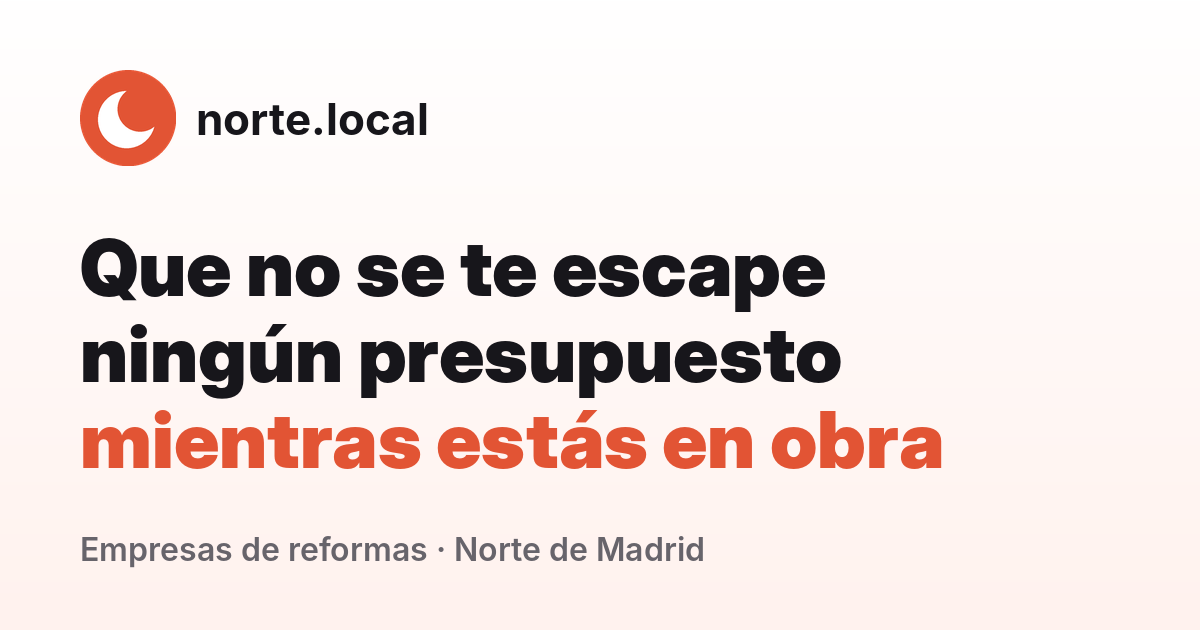
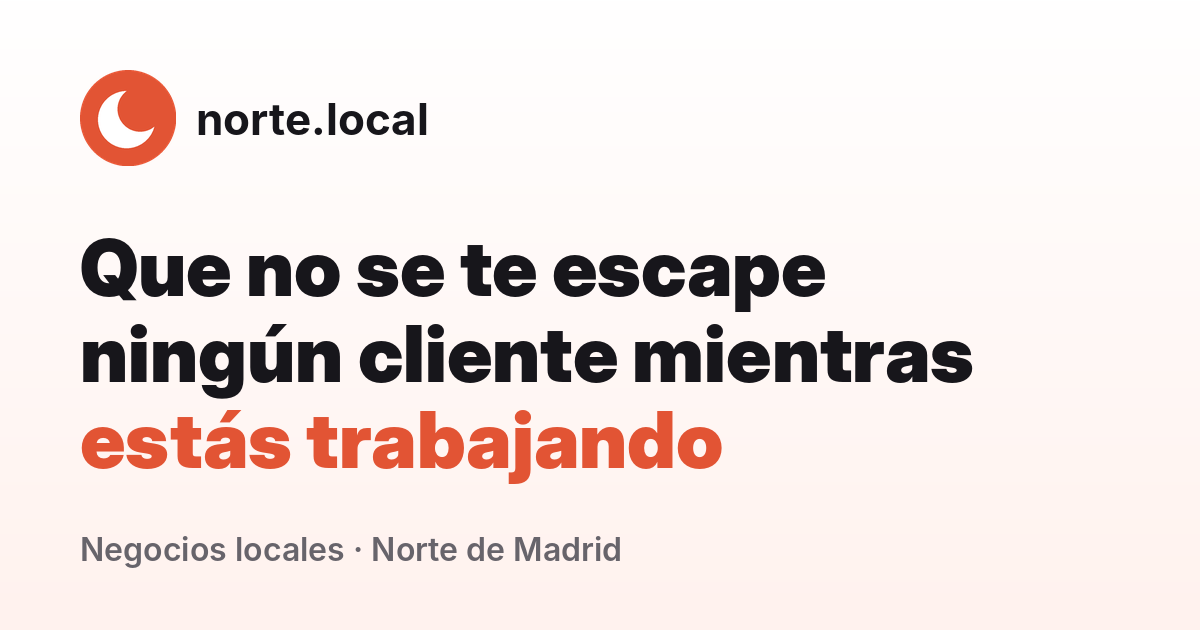
Web: textos generales para cualquier negocio local (sin obras ni reformas)
Claude-Session: https://claude.ai/code/session_01Rdc7L8NRLgrkcbEdKPt14X

Changed region(s): [[0.0617, 0.5127, 0.8325, 0.7841], [0.0617, 0.8444, 0.5858, 0.9048]]

diff --git a/index.html b/index.html
@@ -3,19 +3,19 @@
 <head>
 <meta charset="utf-8">
 <meta name="viewport" content="width=device-width, initial-scale=1">
-<title>norte.local · Asistente que contesta a tus clientes mientras estás en obra</title>
-<meta name="description" content="Para empresas de reformas del norte de Madrid: un asistente que contesta al momento por WhatsApp, Instagram o tu web, pregunta qué obra es y deja la visita agendada. 14 días de prueba gratis.">
+<title>norte.local · Asistente que contesta a tus clientes mientras trabajas</title>
+<meta name="description" content="Para negocios locales del norte de Madrid: un asistente que contesta al momento por WhatsApp, Instagram o tu web, entiende qué necesita el cliente y deja la cita agendada. 14 días de prueba gratis.">
 <link rel="icon" href="assets/logo.svg" type="image/svg+xml">
 <link rel="apple-touch-icon" href="assets/icono-180.png">
-<meta property="og:title" content="Que no se te escape ningún presupuesto mientras estás en obra">
-<meta property="og:description" content="Un asistente que contesta al momento a tus clientes y deja la visita agendada. Empresas de reformas del norte de Madrid.">
+<meta property="og:title" content="Que no se te escape ningún cliente mientras estás trabajando">
+<meta property="og:description" content="Un asistente que contesta al momento a tus clientes y deja la cita agendada. Negocios locales del norte de Madrid.">
 <meta property="og:image" content="assets/og.png">
 <meta property="og:type" content="website">
 <meta name="theme-color" content="#e25434">
 <link rel="preload" href="assets/fonts/InterDisplay-Black.woff2" as="font" type="font/woff2" crossorigin>
 <link rel="stylesheet" href="assets/estilo.css">
 <script type="application/ld+json">
-{"@context":"https://schema.org","@type":"ProfessionalService","name":"norte.local","description":"Asistente automático que contesta los mensajes de empresas de reformas y agenda la visita para el presupuesto.","email":"hugoruizserrano10@gmail.com","areaServed":["Alcobendas","San Sebastián de los Reyes","Tres Cantos","Algete","Colmenar Viejo","Madrid norte"],"sameAs":["https://www.instagram.com/norte.local_/"],"priceRange":"99 €/mes + IVA"}
+{"@context":"https://schema.org","@type":"ProfessionalService","name":"norte.local","description":"Asistente automático que contesta los mensajes de los clientes de negocios locales y agenda la cita.","email":"hugoruizserrano10@gmail.com","areaServed":["Alcobendas","San Sebastián de los Reyes","Tres Cantos","Algete","Colmenar Viejo","Madrid norte"],"sameAs":["https://www.instagram.com/norte.local_/"],"priceRange":"99 €/mes + IVA"}
 </script>
 </head>
 <body>
@@ -41,28 +41,28 @@
 <section class="portada" aria-labelledby="titulo">
   <div class="envoltura">
     <div>
-      <h1 id="titulo">Que no se te escape ningún presupuesto mientras estás en obra</h1>
-      <p class="entrada">Un asistente que contesta al momento los mensajes de tu empresa de reformas, pregunta qué obra es y deja la visita para medir en tu agenda.</p>
+      <h1 id="titulo">Que no se te escape ningún cliente mientras estás trabajando</h1>
+      <p class="entrada">Un asistente que contesta al momento los mensajes de tu negocio, entiende qué necesita cada cliente y le deja la cita apuntada en tu agenda.</p>
       <div class="acciones">
-        <a class="boton" href="#contacto">Pedir una demo con mi empresa</a>
+        <a class="boton" href="#contacto">Pedir una demo con mi negocio</a>
         <a class="boton secundario" href="#como-funciona">Ver cómo funciona</a>
       </div>
       <p class="nota">14 días de prueba gratis. Sin permanencia. Norte de Madrid.</p>
     </div>
 
-    <div class="telefono" aria-label="Ejemplo de conversación: un cliente escribe un domingo por la noche y el asistente agenda la visita">
+    <div class="telefono" aria-label="Ejemplo de conversación: un cliente escribe por la noche y el asistente le agenda una cita">
       <div class="pantalla">
         <div class="barra">
           <div class="avatar"><svg viewBox="0 0 64 64" aria-hidden="true"><circle cx="32" cy="32" r="30" fill="#e25434"/><path d="M38 14a19 19 0 1 0 12 32A16 16 0 0 1 38 14z" fill="#fff"/></svg></div>
-          <div><strong>Reformas Martín</strong><span>Responde al momento</span></div>
+          <div><strong>Taller Martín</strong><span>Responde al momento</span></div>
           <div class="reloj" id="reloj">22:14</div>
         </div>
         <div class="chat" id="chat">
-          <div class="burbuja cliente">Hola, quiero cambiar la bañera por un plato de ducha. Vivo en Alcobendas. ¿Me podéis dar precio?<small>22:14</small></div>
-          <div class="burbuja bot">¡Hola! Soy el asistente automático de Reformas Martín. El cambio de bañera por plato suele ir de 1.200 a 2.000 €, según el baño. Para darte precio cerrado pasamos a medirlo. ¿Te va bien alguna de estas horas?<small>22:14</small></div>
+          <div class="burbuja cliente">Hola, al coche le chirrían los frenos. ¿Podéis mirarlo esta semana? ¿Más o menos cuánto cuesta?<small>22:14</small></div>
+          <div class="burbuja bot">¡Hola! Soy el asistente automático de Taller Martín. La revisión de frenos cuesta 25 €; si hay que cambiar pastillas, desde 90 €. ¿Te va bien traerlo a alguna de estas horas?<small>22:14</small></div>
           <div class="horas"><span class="elegida">Mañana 10:00</span><span>Martes 17:30</span></div>
-          <div class="burbuja cliente">Mañana a las 10 perfecto<small>22:15</small></div>
-          <div class="confirmacion"><i aria-hidden="true"></i>Visita creada y aviso enviado a Martín</div>
+          <div class="burbuja cliente">Mañana a las 10, perfecto<small>22:15</small></div>
+          <div class="confirmacion"><i aria-hidden="true"></i>Cita creada y aviso enviado a Martín</div>
         </div>
       </div>
     </div>
@@ -72,14 +72,14 @@
 <section class="problema" aria-labelledby="t-problema">
   <div class="envoltura">
     <div class="cabeza-seccion">
-      <h2 id="t-problema">El presupuesto se lo lleva quien contesta primero</h2>
-      <p>Mientras estás en una obra, con las manos ocupadas, te escriben clientes que quieren una respuesta ya. Si tardas, preguntan a otra empresa.</p>
+      <h2 id="t-problema">El cliente se va con quien contesta primero</h2>
+      <p>Mientras atiendes a otro cliente o ya has cerrado, te escriben personas que quieren una respuesta ya. Si tardas, preguntan a otro negocio.</p>
     </div>
     <ol class="cronologia" aria-label="Lo que pasa hoy con un mensaje que llega por la noche">
-      <li class="mal"><time>22:14</time><p>Un vecino de Alcobendas pregunta por cambiar su bañera.</p></li>
-      <li><time>22:30</time><p>No contesta nadie. Escribe a dos empresas más.</p></li>
+      <li class="mal"><time>22:14</time><p>Un vecino de Alcobendas pregunta precio y si tienes hueco esta semana.</p></li>
+      <li><time>22:30</time><p>No contesta nadie. Escribe a dos negocios más.</p></li>
       <li><time>08:40</time><p>Contestas tú, con el primer café.</p></li>
-      <li class="mal"><time>08:41</time><p>"Gracias, ya me lo ha mirado otra empresa".</p></li>
+      <li class="mal"><time>08:41</time><p>"Gracias, ya lo he solucionado con otro".</p></li>
     </ol>
   </div>
 </section>
@@ -88,7 +88,7 @@
   <div class="envoltura">
     <div class="cabeza-seccion">
       <h2 id="t-pasos">Cómo funciona</h2>
-      <p>Lo monto yo a partir de tu web y de un cuestionario de diez minutos. Tú solo atiendes las visitas.</p>
+      <p>Lo monto yo a partir de tu web y de un cuestionario de diez minutos. Tú solo atiendes a los clientes.</p>
     </div>
     <ol class="flujo">
       <li>
@@ -99,12 +99,12 @@
       <li>
         <div class="icono"><svg viewBox="0 0 32 32" aria-hidden="true"><circle cx="16" cy="16" r="11" fill="none" stroke="#e25434" stroke-width="2.6"/><path d="M11 16.5l3.4 3.4L21.5 12" fill="none" stroke="#e25434" stroke-width="2.6" stroke-linecap="round" stroke-linejoin="round"/></svg></div>
         <span class="numero">Paso 2</span><h3>Entiende</h3>
-        <p>Pregunta qué obra es, dónde y para cuándo. Detecta lo urgente, como una fuga.</p>
+        <p>Pregunta lo que necesitas saber: qué busca, dónde y para cuándo. Detecta lo urgente y te lo pasa.</p>
       </li>
       <li>
         <div class="icono"><svg viewBox="0 0 32 32" aria-hidden="true"><rect x="5" y="7" width="22" height="20" rx="4" fill="none" stroke="#e25434" stroke-width="2.6"/><path d="M5 13h22M11 4v6M21 4v6" stroke="#e25434" stroke-width="2.6" stroke-linecap="round"/></svg></div>
         <span class="numero">Paso 3</span><h3>Agenda</h3>
-        <p>Mira tu agenda real, ofrece horas libres y deja la visita para medir apuntada.</p>
+        <p>Mira tu agenda real, ofrece horas libres y deja la cita apuntada.</p>
       </li>
       <li>
         <div class="icono"><svg viewBox="0 0 32 32" aria-hidden="true"><path d="M9 21V14a7 7 0 0 1 14 0v7l2 3H7z" fill="none" stroke="#e25434" stroke-width="2.6" stroke-linejoin="round"/><path d="M13 27h6" stroke="#e25434" stroke-width="2.6" stroke-linecap="round"/></svg></div>
@@ -118,11 +118,11 @@
 <section class="para-quien" aria-labelledby="t-quien">
   <div class="envoltura">
     <div>
-      <h2 id="t-quien">Hecho para empresas de reformas</h2>
+      <h2 id="t-quien">Hecho para negocios locales</h2>
       <p class="texto-suave" style="margin-top:18px;font-size:20px">Contesta con tus servicios, tus precios orientativos y tu forma de trabajar. Lo que no sabe, te lo pasa.</p>
       <div class="lista-oficios">
-        <span class="principal">Reformas integrales</span><span class="principal">Cocinas</span><span class="principal">Baños</span>
-        <span>Climatización y calderas</span><span>Fontanería</span><span>Pintura</span><span>Suelos</span>
+        <span class="principal">Talleres</span><span class="principal">Reformas</span><span class="principal">Academias</span>
+        <span>Inmobiliarias</span><span>Estética y peluquería</span><span>Fontanería y climatización</span><span>Gimnasios</span><span>Tiendas</span>
       </div>
     </div>
     <div class="zona">
@@ -130,7 +130,7 @@
       <ul>
         <li>Alcobendas</li><li>San Sebastián de los Reyes</li><li>Tres Cantos</li><li>Algete</li><li>Colmenar Viejo</li><li>Madrid norte</li>
       </ul>
-      <p>Si estás cerca, voy a tu local a enseñarte la demo en persona.</p>
+      <p>Si estás cerca, voy a tu negocio a enseñarte la demo en persona.</p>
     </div>
   </div>
 </section>
@@ -143,11 +143,11 @@
     </div>
     <div class="calc">
       <div class="calc-campos">
-        <div class="campo"><label for="c-msg">Mensajes de clientes nuevos al mes</label><input id="c-msg" type="number" inputmode="numeric" min="0" value="15"></div>
-        <div class="campo"><label for="c-tarde">De ellos, cuántos contestas tarde (más de 1 hora)</label><input id="c-tarde" type="number" inputmode="numeric" min="0" value="5"></div>
-        <div class="campo"><label for="c-perdidos">De los que contestas tarde, % que se va con otra empresa</label><input id="c-perdidos" type="number" inputmode="numeric" min="0" max="100" value="25"></div>
-        <div class="campo"><label for="c-cierre">De cada 10 visitas, cuántas acaban en obra</label><input id="c-cierre" type="number" inputmode="numeric" min="0" max="10" value="3"></div>
-        <div class="campo"><label for="c-valor">Valor medio de una obra (€)</label><input id="c-valor" type="number" inputmode="numeric" min="0" step="100" value="5000"></div>
+        <div class="campo"><label for="c-msg">Mensajes de clientes nuevos al mes</label><input id="c-msg" type="number" inputmode="numeric" min="0" value="30"></div>
+        <div class="campo"><label for="c-tarde">De ellos, cuántos contestas tarde (más de 1 hora)</label><input id="c-tarde" type="number" inputmode="numeric" min="0" value="10"></div>
+        <div class="campo"><label for="c-perdidos">De los que contestas tarde, % que se va con otro negocio</label><input id="c-perdidos" type="number" inputmode="numeric" min="0" max="100" value="25"></div>
+        <div class="campo"><label for="c-cierre">De cada 10 que te escriben, cuántos acaban comprando</label><input id="c-cierre" type="number" inputmode="numeric" min="0" max="10" value="5"></div>
+        <div class="campo"><label for="c-valor">Lo que te deja de media un cliente (€)</label><input id="c-valor" type="number" inputmode="numeric" min="0" step="10" value="300"></div>
       </div>
       <div class="calc-resultado" aria-live="polite">
         <p>Al año pierdes alrededor de</p>
@@ -163,7 +163,7 @@
   <div class="envoltura">
     <div class="cabeza-seccion">
       <h2 id="t-precio">Un precio, sin sorpresas</h2>
-      <p>Si recupera un solo trabajo al año, se paga solo.</p>
+      <p>Con recuperar unos pocos clientes, se paga solo.</p>
     </div>
     <div class="tarjeta-precio">
       <div class="cifra">
@@ -174,7 +174,7 @@
         <li>14 días de prueba gratis en tu cuenta</li>
         <li>Sin permanencia: lo dejas cuando quieras</li>
         <li>Si el primer mes de pago no te convence, te lo devuelvo</li>
-        <li>Al día 14 te enseño cuántas conversaciones atendió y cuántas visitas salieron</li>
+        <li>Al día 14 te enseño cuántas conversaciones atendió y cuántas citas salieron</li>
       </ul>
     </div>
   </div>
@@ -183,9 +183,9 @@
 <section class="preguntas" aria-labelledby="t-preguntas">
   <div class="envoltura">
     <div class="cabeza-seccion"><h2 id="t-preguntas">Lo que suelen preguntarme</h2></div>
-    <details><summary>Mis clientes quieren hablar con una persona</summary><p>El asistente se presenta como automático y te pasa la conversación en cuanto el cliente lo pide o hay una queja. Solo cubre lo repetitivo y las horas en que estás en obra.</p></details>
+    <details><summary>Mis clientes quieren hablar con una persona</summary><p>El asistente se presenta como automático y te pasa la conversación en cuanto el cliente lo pide o hay una queja. Solo cubre lo repetitivo y las horas en que no puedes contestar.</p></details>
     <details><summary>¿Y si dice algo que no es?</summary><p>Solo usa la información que tú le das. Lo que no sabe, te lo pasa. Además, durante la prueba revisamos juntos las conversaciones.</p></details>
-    <details><summary>No tengo tiempo para montarlo</summary><p>Lo monto yo. Tú contestas un cuestionario de diez minutos sobre tus servicios, zona y horarios.</p></details>
+    <details><summary>No tengo tiempo para montarlo</summary><p>Lo monto yo. Tú contestas un cuestionario de diez minutos sobre tus servicios, precios y horarios.</p></details>
     <details><summary>¿Por dónde contesta?</summary><p>Empezamos por un chat con enlace propio, que puedes poner en tu Instagram, en tu ficha de Google y en tu web. Después, Instagram o WhatsApp, según por dónde te escriban más.</p></details>
     <details><summary>¿Qué pasa con los datos de mis clientes?</summary><p>Firmamos un contrato de encargado del tratamiento y el asistente informa al cliente en su primer mensaje. Los datos se usan solo para atender la consulta.</p></details>
   </div>
@@ -194,7 +194,7 @@
 <section class="contacto" id="contacto" aria-labelledby="t-contacto">
   <div class="envoltura">
     <div>
-      <h2 id="t-contacto">Pide una demo con tu empresa</h2>
+      <h2 id="t-contacto">Pide una demo con tu negocio</h2>
       <p>Te preparo un asistente de prueba con los datos de tu web y te lo enseño. Si te encaja, lo dejamos 14 días funcionando gratis.</p>
       <div class="otras">
         <a href="cuestionario.html">
@@ -220,7 +220,7 @@
       <input class="oculto" type="text" name="_honey" tabindex="-1" autocomplete="off" aria-hidden="true">
       <div class="dos">
         <div class="campo"><label for="nombre">Tu nombre</label><input id="nombre" name="nombre" type="text" autocomplete="name" required></div>
-        <div class="campo"><label for="empresa">Empresa</label><input id="empresa" name="empresa" type="text" autocomplete="organization" required></div>
+        <div class="campo"><label for="empresa">Negocio</label><input id="empresa" name="empresa" type="text" autocomplete="organization" required></div>
       </div>
       <div class="dos">
         <div class="campo"><label for="telefono">Teléfono</label><input id="telefono" name="telefono" type="tel" autocomplete="tel" required></div>
@@ -251,7 +251,7 @@
   <div class="envoltura">
     <div>
       <a class="marca" href="#inicio"><svg viewBox="0 0 64 64" aria-hidden="true" width="28" height="28"><circle cx="32" cy="32" r="32" fill="#e25434"/><path d="M38 14a19 19 0 1 0 12 32A16 16 0 0 1 38 14z" fill="#fff"/></svg>norte.local</a>
-      <p>Asistentes que contestan por ti mientras estás en obra. Norte de Madrid.</p>
+      <p>Asistentes que contestan a tus clientes mientras trabajas. Norte de Madrid.</p>
     </div>
     <nav aria-label="Legal">
       <a href="cuestionario.html">Cuestionario</a>

diff --git a/cuestionario.html b/cuestionario.html
@@ -4,7 +4,7 @@
 <meta charset="utf-8">
 <meta name="viewport" content="width=device-width, initial-scale=1">
 <title>Cuestionario para tu asistente · norte.local</title>
-<meta name="description" content="Cuéntanos cómo trabaja tu empresa de reformas y te preparamos una demo del asistente con tus servicios, zona y horarios.">
+<meta name="description" content="Cuéntanos cómo trabaja tu negocio y te preparamos una demo del asistente con tus servicios, precios y horarios.">
 <link rel="icon" href="assets/logo.svg" type="image/svg+xml">
 <link rel="stylesheet" href="assets/estilo.css">
 <style>
@@ -32,7 +32,7 @@
 
 <main class="cuestionario">
   <h1>Cuéntame cómo trabajas</h1>
-  <p>Con esto preparo un asistente de prueba con tus servicios, tu zona y tus horarios. Son unos 3 minutos; lo que no sepas, déjalo en blanco y lo vemos juntos.</p>
+  <p>Con esto preparo un asistente de prueba con tus servicios, tus precios y tus horarios. Son unos 3 minutos; lo que no sepas, déjalo en blanco y lo vemos juntos.</p>
 
   <form class="formulario" id="form-cuestionario" action="https://formsubmit.co/hugoruizserrano10@gmail.com" method="POST" data-gracias="gracias.html">
     <input type="hidden" name="_subject" value="norte.local · Cuestionario rellenado">
@@ -42,43 +42,44 @@
     <input class="oculto" type="text" name="_honey" tabindex="-1" autocomplete="off" aria-hidden="true">
 
     <div class="bloque">
-      <h2><span>1</span>Tu empresa</h2>
+      <h2><span>1</span>Tu negocio</h2>
       <div class="dos">
-        <div class="campo"><label for="empresa">Nombre de la empresa</label><input id="empresa" name="empresa" type="text" autocomplete="organization" required></div>
+        <div class="campo"><label for="empresa">Nombre del negocio</label><input id="empresa" name="empresa" type="text" autocomplete="organization" required></div>
         <div class="campo"><label for="nombre">Tu nombre</label><input id="nombre" name="nombre" type="text" autocomplete="name" required></div>
       </div>
       <div class="dos">
         <div class="campo"><label for="telefono">Teléfono</label><input id="telefono" name="telefono" type="tel" autocomplete="tel" required></div>
         <div class="campo"><label for="email">Correo</label><input id="email" name="email" type="email" autocomplete="email"></div>
       </div>
-      <div class="campo"><label for="web">Web o Instagram de la empresa</label><input id="web" name="web_o_instagram" type="text"></div>
+      <div class="campo"><label for="web">Web o Instagram del negocio</label><input id="web" name="web_o_instagram" type="text"></div>
     </div>
 
     <div class="bloque">
       <h2><span>2</span>Qué hacéis</h2>
       <fieldset class="campo">
-        <legend>Tipo de trabajos</legend>
+        <legend>Tipo de negocio</legend>
         <div class="opciones">
-          <label><input type="checkbox" name="trabajos[]" value="Reformas integrales"> Reformas integrales</label>
-          <label><input type="checkbox" name="trabajos[]" value="Cocinas"> Cocinas</label>
-          <label><input type="checkbox" name="trabajos[]" value="Baños"> Baños</label>
-          <label><input type="checkbox" name="trabajos[]" value="Climatización y calderas"> Climatización y calderas</label>
-          <label><input type="checkbox" name="trabajos[]" value="Fontanería"> Fontanería</label>
-          <label><input type="checkbox" name="trabajos[]" value="Pintura"> Pintura</label>
-          <label><input type="checkbox" name="trabajos[]" value="Suelos"> Suelos</label>
-          <label><input type="checkbox" name="trabajos[]" value="Electricidad"> Electricidad</label>
+          <label><input type="radio" name="tipo_negocio" value="Taller"> Taller</label>
+          <label><input type="radio" name="tipo_negocio" value="Reformas"> Reformas</label>
+          <label><input type="radio" name="tipo_negocio" value="Academia"> Academia</label>
+          <label><input type="radio" name="tipo_negocio" value="Inmobiliaria"> Inmobiliaria</label>
+          <label><input type="radio" name="tipo_negocio" value="Estética o peluquería"> Estética o peluquería</label>
+          <label><input type="radio" name="tipo_negocio" value="Fontanería o climatización"> Fontanería o climatización</label>
+          <label><input type="radio" name="tipo_negocio" value="Gimnasio"> Gimnasio</label>
+          <label><input type="radio" name="tipo_negocio" value="Tienda"> Tienda</label>
+          <label><input type="radio" name="tipo_negocio" value="Otro"> Otro</label>
         </div>
       </fieldset>
-      <div class="campo"><label for="mas-pedidos">Los trabajos que más os piden y su precio orientativo <span class="ayuda">(por ejemplo: cambio de bañera por plato, desde 1.200 €)</span></label><textarea id="mas-pedidos" name="mas_pedidos_y_precios"></textarea></div>
-      <div class="campo"><label for="no-hacemos">Trabajos que no hacéis o clientes que no os interesan</label><input id="no-hacemos" name="no_hacemos" type="text" placeholder="Obras muy pequeñas, fuera de Madrid…"></div>
+      <div class="campo"><label for="mas-pedidos">Los servicios o productos que más os piden y su precio orientativo <span class="ayuda">(por ejemplo: revisión de frenos, 25 €)</span></label><textarea id="mas-pedidos" name="mas_pedidos_y_precios"></textarea></div>
+      <div class="campo"><label for="no-hacemos">Lo que no hacéis o clientes que no os interesan</label><input id="no-hacemos" name="no_hacemos" type="text" placeholder="Servicios que no ofrecéis, zonas a las que no vais…"></div>
     </div>
 
     <div class="bloque">
       <h2><span>3</span>Zona y horario</h2>
-      <div class="campo"><label for="zona">Municipios donde trabajáis</label><input id="zona" name="zona" type="text" placeholder="Alcobendas, Sanse, Tres Cantos…"></div>
+      <div class="campo"><label for="zona">Dónde estáis o a qué zona dais servicio</label><input id="zona" name="zona" type="text" placeholder="Alcobendas, Sanse, Tres Cantos…"></div>
       <div class="dos">
         <div class="campo"><label for="horario">Horario de oficina</label><input id="horario" name="horario_oficina" type="text" placeholder="L-V 9:00-14:00 y 16:00-19:00"></div>
-        <div class="campo"><label for="visitas">Días y horas para visitas</label><input id="visitas" name="dias_visitas" type="text" placeholder="L-V por la tarde"></div>
+        <div class="campo"><label for="visitas">Días y horas para citas</label><input id="visitas" name="dias_citas" type="text" placeholder="L-V por la tarde"></div>
       </div>
     </div>
 
@@ -92,7 +93,7 @@
           <label><input type="checkbox" name="canales[]" value="Formulario web"> Formulario de la web</label>
           <label><input type="checkbox" name="canales[]" value="Teléfono"> Teléfono</label>
           <label><input type="checkbox" name="canales[]" value="Correo"> Correo</label>
-          <label><input type="checkbox" name="canales[]" value="Portales (Habitissimo, etc.)"> Portales de reformas</label>
+          <label><input type="checkbox" name="canales[]" value="Portales o webs de reservas"> Portales o webs de reservas</label>
         </div>
       </fieldset>
       <div class="dos">
@@ -109,9 +110,9 @@
       <fieldset class="campo">
         <legend>¿Qué debería agendar el asistente?</legend>
         <div class="opciones">
-          <label><input type="radio" name="que_agenda" value="Visita para medir" checked> Visita para medir</label>
+          <label><input type="radio" name="que_agenda" value="Cita en el local" checked> Una cita en el local</label>
+          <label><input type="radio" name="que_agenda" value="Visita a domicilio"> Una visita a domicilio</label>
           <label><input type="radio" name="que_agenda" value="Llamada"> Una llamada</label>
-          <label><input type="radio" name="que_agenda" value="Visita a la exposición"> Visita a la exposición</label>
         </div>
       </fieldset>
       <fieldset class="campo">
@@ -122,7 +123,7 @@
           <label><input type="radio" name="calendario" value="No, en papel o de memoria"> No</label>
         </div>
       </fieldset>
-      <div class="campo"><label for="persona">Casos que deben pasar a una persona en el acto</label><input id="persona" name="pasar_a_persona" type="text" placeholder="Quejas, urgencias, obras grandes…"></div>
+      <div class="campo"><label for="persona">Casos que deben pasar a una persona en el acto</label><input id="persona" name="pasar_a_persona" type="text" placeholder="Quejas, urgencias, pedidos grandes…"></div>
       <div class="campo"><label for="nunca">Algo que el asistente no deba decir o prometer nunca</label><input id="nunca" name="no_prometer" type="text" placeholder="Precios cerrados, plazos…"></div>
     </div>
 

diff --git a/assets/web.js b/assets/web.js
@@ -38,7 +38,7 @@ document.querySelectorAll("form[data-gracias]").forEach(function (f) {
   io.observe(chat);
 })();
 
-// Calculadora de obras perdidas (todo en el navegador).
+// Calculadora de clientes perdidos (todo en el navegador).
 (function () {
   var ids = ["c-msg", "c-tarde", "c-perdidos", "c-cierre", "c-valor"];
   var els = ids.map(function (i) { return document.getElementById(i); });
@@ -49,11 +49,11 @@ document.querySelectorAll("form[data-gracias]").forEach(function (f) {
   function calc() {
     var tarde = Math.min(n(els[1]), n(els[0]));
     var perdidosMes = tarde * Math.min(n(els[2]), 100) / 100;
-    var obrasAno = perdidosMes * 12 * Math.min(n(els[3]), 10) / 10;
-    var euros = obrasAno * n(els[4]);
+    var ventasAno = perdidosMes * 12 * Math.min(n(els[3]), 10) / 10;
+    var euros = ventasAno * n(els[4]);
     out.textContent = fmt.format(Math.round(euros / 100) * 100) + " €";
-    det.textContent = "Unos " + fmt.format(perdidosMes * 12) + " clientes al año que se van con otro, que serían unas " +
-      (obrasAno < 10 ? obrasAno.toLocaleString("es-ES", { maximumFractionDigits: 1 }) : fmt.format(obrasAno)) + " obras.";
+    det.textContent = "Unos " + fmt.format(perdidosMes * 12) + " clientes al año que se van con otro, de los que unos " +
+      (ventasAno < 10 ? ventasAno.toLocaleString("es-ES", { maximumFractionDigits: 1 }) : fmt.format(ventasAno)) + " te habrían comprado.";
   }
   els.forEach(function (e) { e.addEventListener("input", calc); });
   calc();
